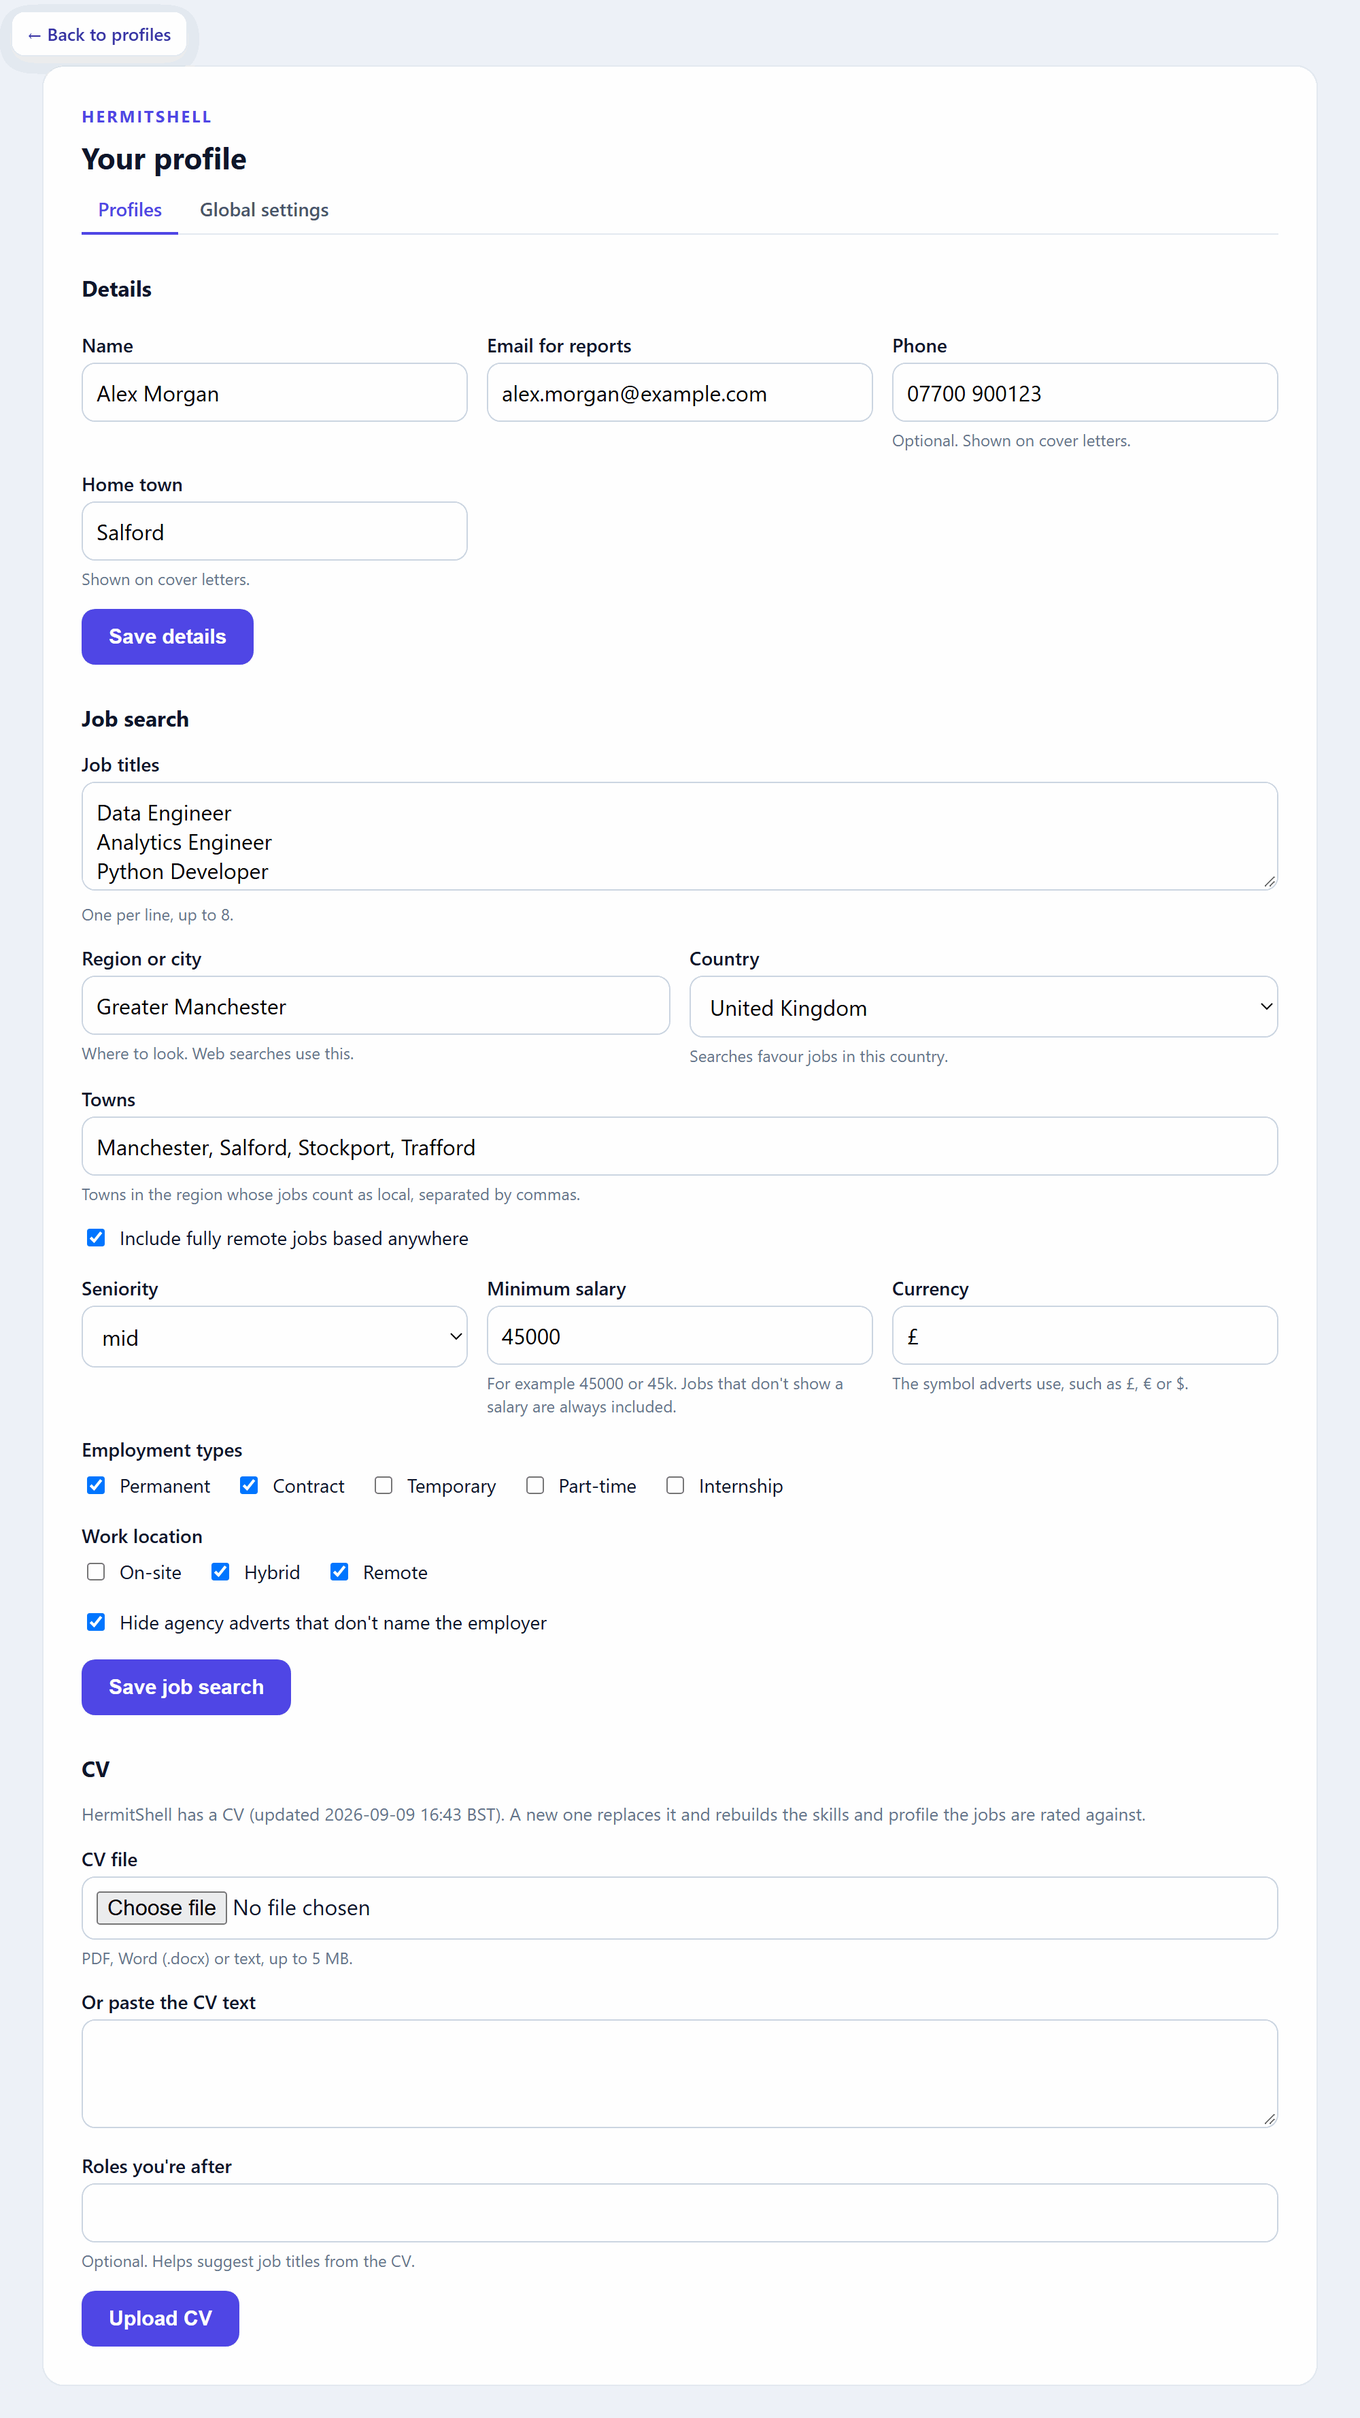
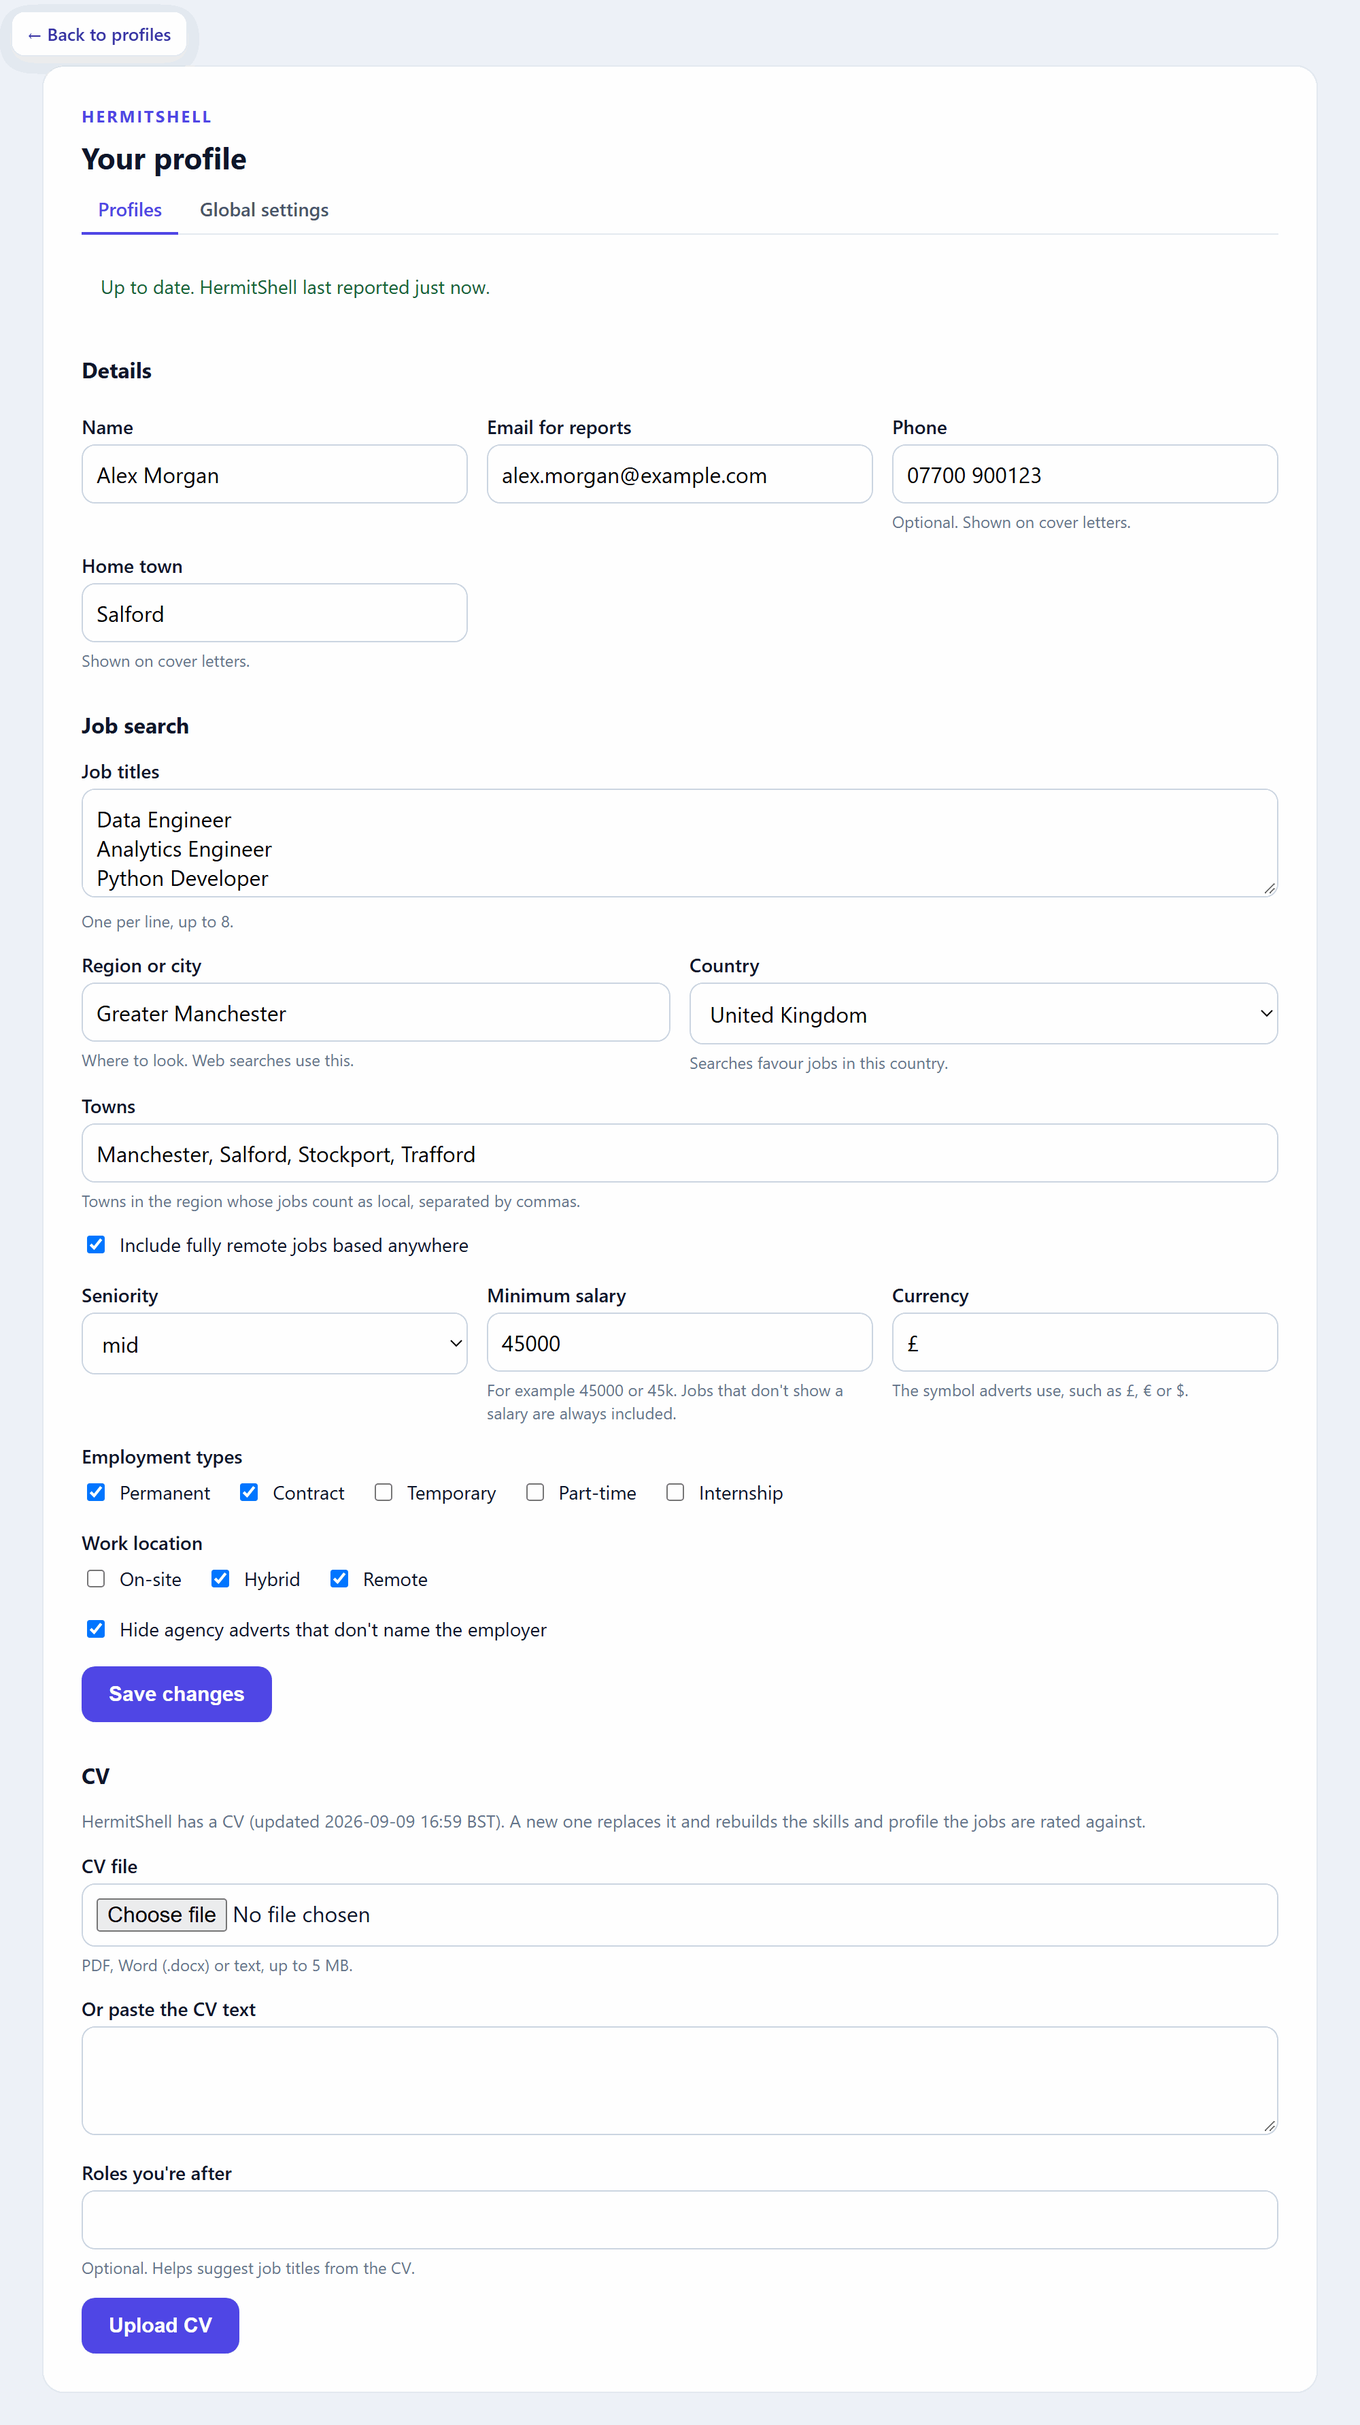
Docs: saving on the dashboard, the watch loop, new screenshots
feedback-worker.md explains the single Save, the pending overlay, the status box, how clashes
are handled, the watch loop and the free-plan budget. configuration.md lists
JOB_PROFILES_WATCH_SECONDS and JOB_PROFILES_POLL_SECONDS. screenshots.md adds the just-saved and
clash pages. worker_pages.mjs renders them, inlining the status frame. Changelog updated.

diff --git a/docs/feedback-worker.md b/docs/feedback-worker.md
@@ -260,7 +260,7 @@ One HermitShell can send reports to other people too, each built from their own 
 from the Worker's admin page; HermitShell applies the changes, since the Worker can't reach your server.
 
 ```
-/admin (you) ──> invite link ──> /join (them: details + CV) ──> KV ──> profiles.py every 5 min
+/admin (you) ──> invite link ──> /join (them: details + CV) ──> KV ──> profiles.py (checks every 15 s)
 ```
 
 1. Set an admin password on the Worker (and optionally a username; the default is `admin`). Pipe
@@ -278,12 +278,18 @@ from the Worker's admin page; HermitShell applies the changes, since the Worker 
        --name vacancy-profiles --script profiles.py --no-agent --deliver local
    ```
 
+   Each run syncs, then keeps watching until just before the next run: every 15 seconds it reads
+   `/api/queue/flag` (one KV read, no list) and syncs as soon as something new is queued, so
+   dashboard changes and sign-ups are picked up within seconds. `python3 profiles.py --once` syncs
+   once and exits. `JOB_PROFILES_WATCH_SECONDS` (default 270, `0` turns watching off) and
+   `JOB_PROFILES_POLL_SECONDS` (default 15, at least 5) change this.
+
 3. Open `https://vacancy-feedback.<subdomain>.workers.dev/admin`, sign in and press
    **Create invite link**. Each link works once and expires after 7 days; send it to the person.
    (`python3 profiles.py --invite "note"` makes one from the server too.)
 4. They fill in their name, email, optional phone and town, the roles they want, and upload a CV
    (PDF, Word .docx or text, up to 5 MB) or paste it. The CV waits in KV, deleted once HermitShell has it.
-5. Within 5 minutes `profiles.py` downloads it, reads the text (`cv_text.py`, no extra packages;
+5. Within a minute `profiles.py` downloads it, reads the text (`cv_text.py`, no extra packages;
    scanned image-only PDFs can't be read, so the pasted text is used instead), and asks HermitShell's
    model for a summary, job titles, skills and gaps. From those it writes the person's
    `job_profile.md`, `cv_keywords.json` and search settings under `state/profiles/<id>/`, emails
@@ -354,7 +360,8 @@ whole tool shares).
 
 Keys and passwords are stored on the HermitShell server (`state/dashboard.json` and
 `state/profiles/`, mode 600) and shown only as their last four characters. Changes wait in KV and
-are applied by `profiles.py` within 5 minutes ("Waiting for HermitShell" shows what is pending).
+are applied by `profiles.py`, usually within a minute ("Waiting for HermitShell" shows what is
+pending). Until then the email server form shows what you saved rather than the old values.
 Passwords and keys typed into the page are deleted from KV after 2 days if HermitShell hasn't collected
 them.
 
@@ -363,7 +370,8 @@ them.
 <img src="images/worker/admin-profile.png" alt="A profile's settings page" width="720">
 
 **Back to profiles** stays in the top-left corner while you scroll. Each box has a short hint
-under it.
+under it. Details and job search are one form with one **Save changes** button; the CV has its own
+**Upload CV**.
 
 - **Details**: name, the email address their reports go to, phone and home town (shown on cover
   letters). For you, the address is `ALERT_EMAIL`.
@@ -376,6 +384,23 @@ under it.
 - **CV**: upload a PDF, Word or text file, or paste it. HermitShell reads it, rebuilds the profile and
   skills the jobs are rated against, and emails a summary. Your previous `job_profile.md` and
   `cv_keywords.json` are kept as `.bak` copies.
+
+**Saving without losing anything.** The Worker can't reach your server, so a save waits in KV until
+`profiles.py` collects it (usually within a minute). Meanwhile:
+
+- The page shows what HermitShell last reported with every save still waiting laid over it, so the
+  form keeps what you saved instead of jumping back to the old values.
+- A small box at the top says **Waiting for HermitShell**, then **Applied by HermitShell** (or why
+  it couldn't be applied). It reloads itself every 5 seconds for a minute, then every 20 seconds for
+  3 more, then stops; each check lists the KV queue, which the free plan limits to 1,000 a day.
+  The page has no JavaScript: the box is a small frame that only the dashboard itself can embed.
+- Only the fields you changed are saved. Each form remembers the values it opened with, so if
+  someone else (another admin tab, a CV rebuild) changed *other* fields in the meantime, both
+  changes are kept. If they changed the *same* field, nothing is saved: the page comes back with
+  your version still in the form and a list of each clashing field with both values. **Save
+  changes** again keeps yours.
+- A save with nothing changed says so and queues nothing. A bad email address or an empty name
+  shows the page again with what you typed.
 
 Every control is described in [screenshots.md](screenshots.md#profiles).
 
@@ -436,11 +461,14 @@ you run HermitShell (for example turn encryption off or change the retention day
 
 ### Free-plan limits
 
-Workers KV's free plan allows 1,000 list operations a day. Polling (`/events` every 5 minutes for
-cover letters, `/api/queue` for profiles) reads a small flag key instead of listing, and only lists
-when something is waiting, plus an hourly and a daily full check. Status reports from HermitShell are
-only written when something changed or every 15 minutes (at most 96 of the 1,000 writes a day the
-free plan allows).
+Workers KV's free plan allows 1,000 list operations, 1,000 writes and 100,000 reads a day, and
+Workers 100,000 requests. Polling (`/events` every 5 minutes for cover letters, `/api/queue` for
+profiles) reads a small flag key instead of listing, and only lists when something is waiting, plus
+an hourly and a daily full check. Between runs `profiles.py` reads `/api/queue/flag` every 15
+seconds (about 5,200 reads and requests a day) and only syncs when its value changes, so an item
+that keeps failing is retried by the next run rather than listed every 15 seconds. Admin pages
+also skip the listing when the flag says the queue is empty. Status reports from HermitShell are
+only written when something changed or every 15 minutes (at most 96 of the 1,000 writes a day).
 
 ## Removing it
 

diff --git a/docs/screenshots.md b/docs/screenshots.md
@@ -291,7 +291,7 @@ deleted ([data protection](configuration.md#data-protection)).
 
 | Control | What it does |
 | --- | --- |
-| Status line | How long ago HermitShell last reported, with the time in your timezone (`HERMES_TIMEZONE`), and changes still **Waiting for HermitShell** (applied by `profiles.py` within about 5 minutes). A warning appears above it if HermitShell hasn't reported for 45 minutes |
+| Status line | How long ago HermitShell last reported, with the time in your timezone (`HERMES_TIMEZONE`), and changes still **Waiting for HermitShell** (applied by `profiles.py`, usually within a minute). A warning appears above it if HermitShell hasn't reported for 45 minutes |
 | Profile, Status | Name, email and start date, **no CV** when there is none yet; owner, active or paused; time of the last report |
 | **Manage** | Opens [that profile's page](#a-profiles-page): details, job search and CV |
 | Crawler: **Their Firecrawl key** + **Save** | Gives that profile its own Firecrawl key, used instead of the global one |
@@ -340,9 +340,21 @@ HermitShell hasn't collected them.
 | Section | What it sets |
 | --- | --- |
 | **Back to profiles** | Floats in the top-left corner while you scroll |
+| Status box | Under the tabs: **Up to date**, **Waiting for HermitShell** while a save is queued (it checks again by itself), **Applied by HermitShell**, or why a change couldn't be applied |
 | Details | Name, the email address reports go to, phone and home town (for cover letters) |
 | Job search | Job titles (up to 8), region or city (used in web searches), country from a list, towns, remote elsewhere, seniority, minimum salary (empty = none) and currency, employment types, work location, hiding unnamed agency adverts |
-| CV | A new CV file or pasted text; HermitShell rebuilds the profile and skills from it and emails a summary |
+| **Save changes** | One button for details and job search; only the fields you changed are sent |
+| CV + **Upload CV** | A new CV file or pasted text; HermitShell rebuilds the profile and skills from it and emails a summary |
+
+<table><tr><th>Just saved</th><th>Someone else changed the same field</th></tr>
+<tr><td><img src="images/worker/admin-profile-saved.png" alt="Profile page right after saving, waiting for HermitShell" width="380"></td>
+<td><img src="images/worker/admin-profile-conflict.png" alt="Profile page showing a clash with another change" width="380"></td></tr></table>
+
+After **Save changes** the form keeps the saved values (the page lays every change still waiting
+for HermitShell over what it last reported) and the status box follows it until it is applied. If
+someone else changed the same field since you opened the page, nothing is saved: the box lists each
+clashing field with both values and your version stays in the form, so **Save changes** again keeps
+yours. Changes to different fields are both kept.
 
 ## Regenerating these images
 

diff --git a/docs/configuration.md b/docs/configuration.md
@@ -110,6 +110,8 @@ when its best case is below the minimum.
 | `CLOUDFLARE_API_TOKEN` | none | API token for that deployment (Workers Scripts Edit, Workers KV Storage Edit; Access: Apps and Policies Edit for Access). Not changeable from the dashboard |
 | `CLOUDFLARE_WORKER_NAME` | `vacancy-feedback` | Worker name, the first part of its `workers.dev` address |
 | `CLOUDFLARE_ACCESS_EMAILS` | none | Emails Cloudflare Access lets through to `/admin`; empty = password only |
+| `JOB_PROFILES_WATCH_SECONDS` | `270` | After each 5-minute sync, how long `profiles.py` keeps watching the Worker for dashboard changes and sign-ups; `0` = only sync at each run |
+| `JOB_PROFILES_POLL_SECONDS` | `15` | How often it checks while watching (one KV read each time; at least 5) |
 
 The wizard generates both secrets and, with a Cloudflare token, deploys the Worker itself
 ([cloudflare-setup.md](cloudflare-setup.md)). Deploying by hand (with the Cloudflare MCP in an AI
@@ -121,7 +123,8 @@ Run times aren't `.env` settings: they are `hermes cron` jobs. The wizard asks f
 time (`07:30`, `weekdays 08:00`, `sunday 18:00` or a cron expression) and creates or updates
 the job. There are four more jobs: the weekly roll-up (`job_weekly.py`, default Sunday
 18:00), the cover letter and tailored CV requests check (`cover_letter.py`) and the profiles
-check (`profiles.py`), both every 5 minutes and silent when idle, and nightly maintenance
+check (`profiles.py`, which also watches for dashboard changes between runs), both every 5
+minutes and silent when idle, and nightly maintenance
 (`maintenance.py`, 03:30). In an unattended `--answers` file, use `SCHEDULE_DAILY_VACANCY_REPORT`,
 `SCHEDULE_DAILY_VACANCY_REPORT_WEEKLY`, `SCHEDULE_DAILY_VACANCY_REPORT_LETTERS`,
 `SCHEDULE_DAILY_VACANCY_REPORT_PROFILES` and `SCHEDULE_DAILY_VACANCY_REPORT_MAINTENANCE`.
@@ -154,7 +157,7 @@ This is how it is carried out:
   Restore with `python3 maintenance.py --restore FILE --to EMPTY_DIR`, then copy back
   what you need.
 - **Unsubscribe and deletion.** An extra profile's unsubscribe link, or Delete on `/admin`,
-  removes its folder (profile, CV, tracker, letters, keys) within about 5 minutes, drops its
+  removes its folder (profile, CV, tracker, letters, keys) within about a minute, drops its
   answers still waiting on the Worker, replaces its name, email address and profile id with
   `[deleted]` in the logs, and emails the person a confirmation. Your own unsubscribe link only
   pauses your reports. `profiles.py --delete ID` does the same from the command line.

diff --git a/CHANGELOG.md b/CHANGELOG.md
@@ -8,6 +8,26 @@ using [Semantic Versioning](https://semver.org/).
 
 ### Added
 
+- **Saves no longer vanish, and two people can't overwrite each other.** A profile's details and
+  job search are now one form with one **Save changes** button, next to one **Upload CV**. Before,
+  saving reloaded the page with the old values until HermitShell's next check, so the form looked
+  as if it had been wiped. Now the page lays every change still waiting for HermitShell over what
+  it last reported, so what you saved stays on screen. The email server form on Global settings does
+  the same. A small status box at the top of the profile page says **Waiting for HermitShell**, then
+  **Applied by HermitShell** (or why it couldn't be applied), checking again by itself. It is a
+  framed page, not JavaScript, and it slows down and then stops so it doesn't use up the free
+  plan's daily KV list quota. Each form remembers the values it opened with, and only the fields
+  you changed are saved. If someone else changed *other* fields in the meantime (another admin, a
+  CV rebuild), both changes are kept. If they changed the *same* field, nothing is saved: the page
+  comes back showing both values, with your version still in the form. HermitShell applies each
+  change field by field onto the current settings.
+- **HermitShell picks up dashboard changes within seconds.** `profiles.py` no longer waits up to 5
+  minutes for its next run. After each sync it keeps checking a new `/api/queue/flag` endpoint every
+  15 seconds until just before the next run: one KV read each time, well inside the free plan. It
+  syncs as soon as something new is queued. Sign-ups, deletions, CV uploads and settings all
+  benefit. `profiles.py --once` syncs once and exits. `JOB_PROFILES_WATCH_SECONDS` (`0` turns
+  watching off) and `JOB_PROFILES_POLL_SECONDS` tune it. Admin pages also skip listing the queue
+  when it is empty.
 - **Dashboard times in your timezone.** The admin pages showed every time in UTC, so during
   British Summer Time the last update looked an hour old. Times now use `HERMES_TIMEZONE` (sent by
   HermitShell with its status), and the status line says how long ago it was ("4 minutes ago").
